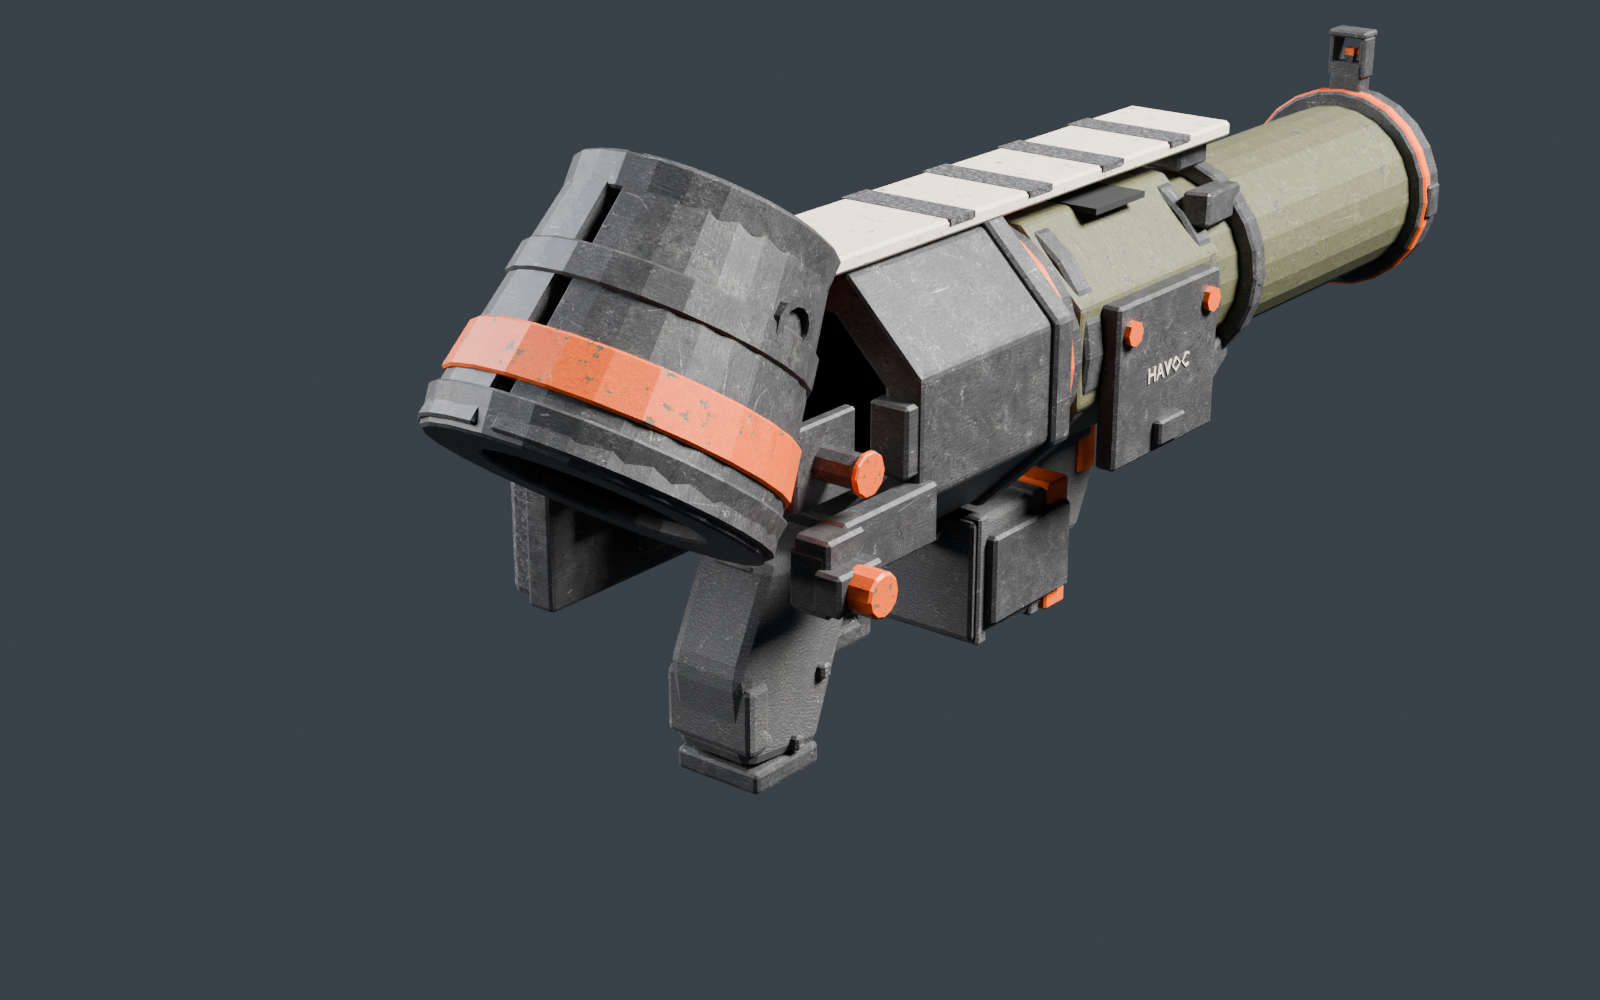
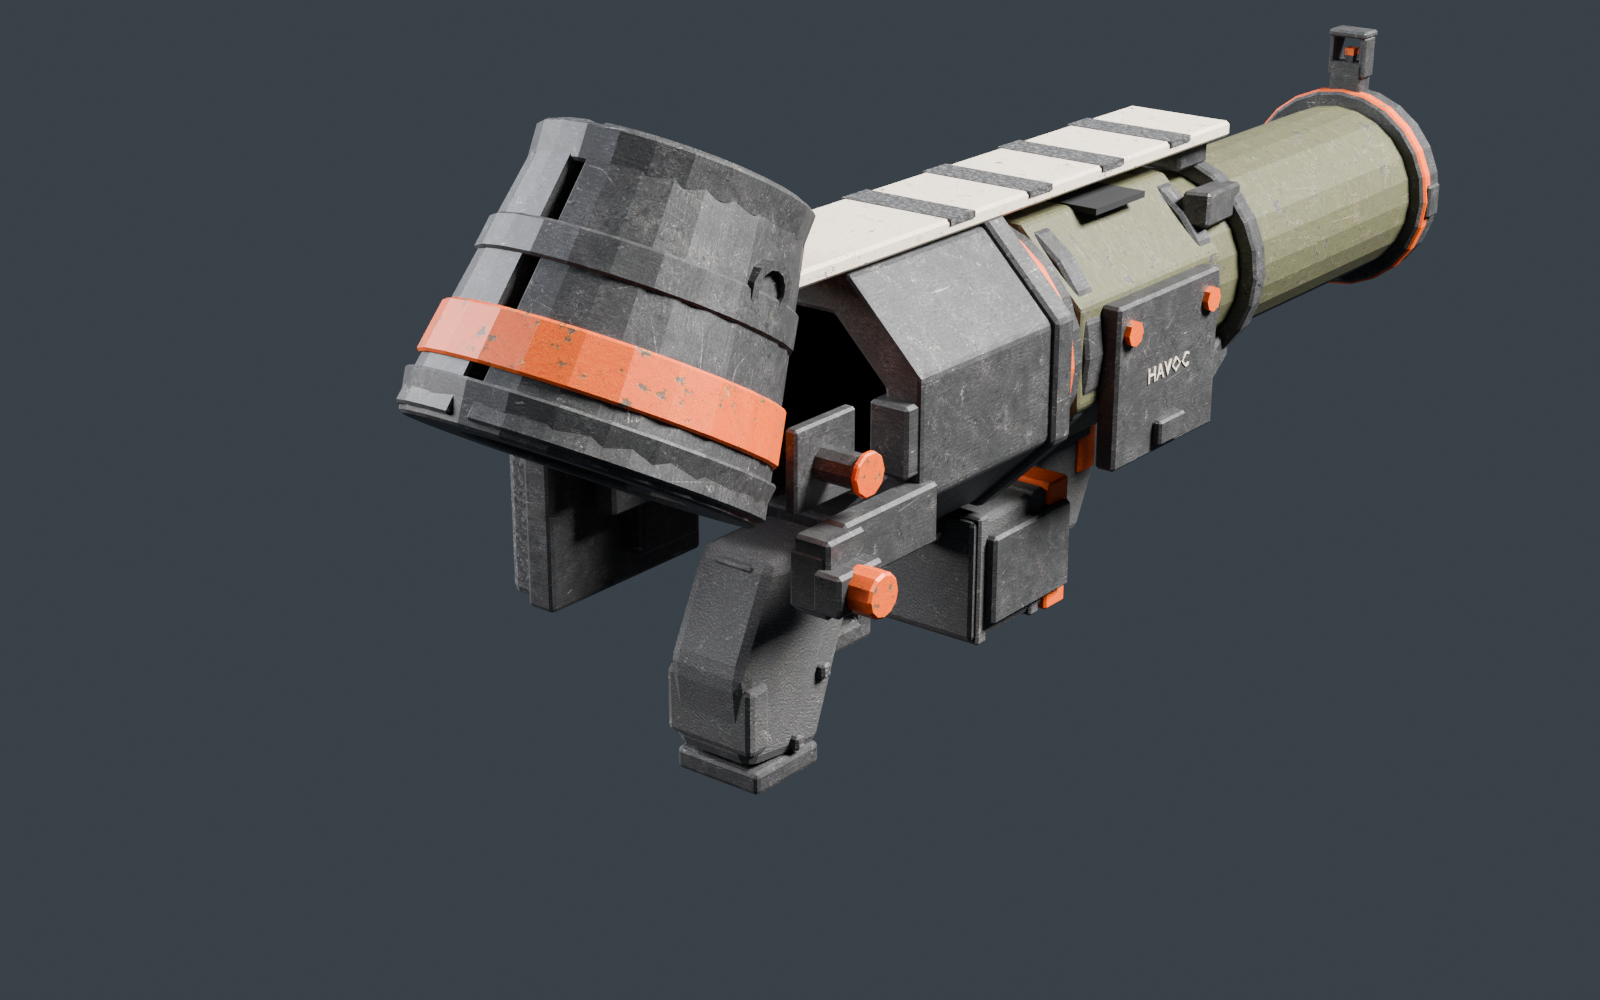
Rocket reload restaged: breech presentation, weighted gate drop, staged round

Changed region(s): [[0.25, 0.093, 0.5625, 0.589]]

diff --git a/public/js/guns/actions.js b/public/js/guns/actions.js
@@ -165,12 +165,17 @@ export class WeaponActions {
       lead.rotation.set(0, 0, 0);
     }
     const rocket = model.extra.userData.rocketReload;
-    if (rocket) rocket.gate.position.z = rocket.rearZ;
+    if (rocket) {
+      // The rocket reload drives the gate slide + swing and the round's rotation
+      // (the arming lever rides model.bolt, zeroed above); restore all of it.
+      rocket.gate.position.z = rocket.rearZ;
+      rocket.gate.rotation.x = 0;
+    }
     const rounds = model.extra.userData.reloadRounds;
     if (rounds) {
       rounds.visible = false;
       for (const child of rounds.children) child.visible = true;
-      if (revolver) rounds.rotation.set(0, 0, 0);
+      if (revolver || rocket) rounds.rotation.set(0, 0, 0);
       if (rounds.userData.homePosition) rounds.position.copy(rounds.userData.homePosition);
     }
     const cartridges = model.extra.userData.cartridges;
@@ -612,36 +617,58 @@ export class WeaponActions {
       this._phase(frac, 0.01, 0.10) * (1 - this._phase(frac, 0.92, 1)), loading);
   }
 
+  /**
+   * RX-8 HAVOC reload staging, all six beats under the camera: PRESENT the
+   * breech, DROP the gate with a weighted hinge-stop, LOAD the round up from
+   * lower-right, SEAT it with an accelerating shove, SLAM the gate shut, COCK
+   * the arming lever. Pure function of `frac`; rest pose untouched.
+   */
   _updateRocketReload(frac, model, out) {
     const reload = this._reload;
     const timeline = model.T.magTimeline;
     const parts = model.extra.userData.rocketReload;
-    const presented = this._phase(frac, 0.025, 0.18) * (1 - this._phase(frac, 0.90, 1));
-    const open = this._phase(frac, timeline.start, 0.32) * (1 - this._phase(frac, timeline.home, timeline.clickAt));
+    // PRESENT: roll the breech toward the camera from 0.02 so every later action
+    // happens under the lens, then settle the view before the slam. The seat and
+    // latch contacts keep the two heavy clicks felt in the hands.
+    const presented = this._phase(frac, 0.02, 0.20) * (1 - this._phase(frac, 0.88, 1.00));
     const seat = this._contact(frac, timeline.home, 0.07);
-    out.dip = 0.045 * presented + 0.025 * seat;
-    out.rock = 0.10 * presented - 0.08 * seat;
-    out.x = -0.12 * presented;
-    out.push = -0.12 * presented - 0.035 * seat;
-    // The authored venturi sleeves the tube ahead of the hinge: it travels
-    // straight back clear of the breech, then flips down break-action style so
-    // the rear stands fully open before the round starts to rise. Same for the
-    // procedural cone; rest pose untouched.
-    const slide = this._phase(frac, timeline.start, 0.30) * (1 - this._phase(frac, timeline.home, timeline.clickAt));
-    parts.gate.position.z = parts.rearZ + 0.11 * slide;
-    parts.gate.rotation.x = 0.95 * open * slide;
+    const latch = this._contact(frac, timeline.clickAt, 0.05);
+    out.yaw = -0.22 * presented;
+    out.roll = 0.16 * presented;
+    out.x = -0.10 * presented;
+    out.dip = 0.05 * presented + 0.03 * seat;
+    out.rock = 0.10 * presented - 0.10 * seat - 0.03 * latch;
+    out.push = -0.10 * seat;
+    // DROP: the gate (authored venturi or procedural cone) sleeves straight back
+    // clear of the breech, then flips down break-action style so the rear stands
+    // fully open before the round starts to rise.
+    const slide = this._phase(frac, 0.18, 0.30) * (1 - this._phase(frac, 0.84, 0.90));
+    parts.gate.position.z = parts.rearZ + 0.13 * slide;
+    const open = this._phase(frac, 0.20, 0.32) * (1 - this._phase(frac, 0.85, 0.90));
+    // The hinge-stop bounce at 0.31 lands the drop with weight; SLAM swings the
+    // gate shut from 0.84 and a smaller bounce at 0.895 absorbs the impact. Both
+    // decays end before 0.94 so the rest value is exactly 0.
+    parts.gate.rotation.x = 1.05 * open * slide + 0.07 * this._contact(frac, 0.31, 0.12)
+      - 0.05 * this._contact(frac, 0.895, 0.04);
+    // COCK: the arming lever tips while the breech stands open and snaps home
+    // exactly on cue 3.
+    model.bolt.rotation.x = 0.55 * open * (1 - this._phase(frac, 0.88, timeline.clickAt));
+    // LOAD: the round rises from lower-right close to the camera, yawed across
+    // the bore, then squares onto the tube axis.
     const round = model.extra.userData.reloadRounds;
-    const raise = this._phase(frac, 0.40, 0.58);
-    const align = this._phase(frac, 0.58, 0.68);
-    const insert = this._phase(frac, 0.68, timeline.home);
-    round.visible = frac >= 0.40 && frac < timeline.home;
-    round.position.set(-0.24 * (1 - align), parts.axisY - 1.1 * (1 - raise),
-      parts.rearZ + 0.26 - insert * 0.55);
-    round.rotation.y = 0.32 * (1 - align);
+    const raise = this._phase(frac, 0.36, 0.56);
+    const align = this._phase(frac, 0.56, 0.68);
+    // SEAT: an accelerating shove drives the round home — at insert = 1 its
+    // origin reaches rearZ - 0.29 (game z -0.35), its previous seat — and the
+    // support hand rides it the whole way.
+    const insert = this._phase(frac, 0.70, timeline.home);
+    round.visible = frac >= 0.36 && frac < timeline.home;
+    round.position.set(-0.30 * (1 - align), parts.axisY - 0.55 * (1 - raise),
+      parts.rearZ + 0.42 - 0.71 * insert * insert);
+    round.rotation.y = 0.45 * (1 - align);
     this._moveReloadHand(model, round.position.x - 0.04, round.position.y - 0.04, round.position.z + 0.075,
-      this._phase(frac, 0.20, 0.36) * (1 - this._phase(frac, timeline.home, 0.98)),
+      this._phase(frac, 0.24, 0.38) * (1 - this._phase(frac, timeline.home, 0.98)),
       round.visible || frac >= timeline.home);
-    model.bolt.rotation.x = 0.5 * open * (1 - this._phase(frac, timeline.home, timeline.clickAt));
     for (const [at, click] of [[timeline.start, 1], [timeline.home, 2], [timeline.clickAt, 3]]) {
       if (frac >= at && reload.lastFrac < at) this._callbacks.onReloadClick(click);
     }

diff --git a/public/js/capture/weapon-capture.js b/public/js/capture/weapon-capture.js
@@ -145,12 +145,15 @@ if (state.startsWith('charge-')) {
 
 if (state.startsWith('reload-')) {
   // Fractions of the one-second reload: cylinder work for the revolver, the
-  // belt gun's cover-open / box-drop / lead-laid / handle-rack beats for the LMG.
+  // belt gun's cover-open / box-drop / lead-laid / handle-rack beats for the LMG,
+  // and the rocket's gate-drop and tube-mouth shove for the RX-8 rear load.
   const belt = weapon === 'lmg';
   rig.reload(1, belt ? 'magswap' : 'cylinder');
-  const fraction = belt
-    ? { 'reload-open': 0.14, 'reload-eject': 0.28, 'reload-load': 0.875, 'reload-charge': 0.965 }[state]
-    : { 'reload-open': 0.26, 'reload-eject': 0.40, 'reload-load': 0.64 }[state];
+  const fraction = weapon === 'rocket'
+    ? { 'reload-open': 0.33, 'reload-load': 0.72 }[state]
+    : belt
+      ? { 'reload-open': 0.14, 'reload-eject': 0.28, 'reload-load': 0.875, 'reload-charge': 0.965 }[state]
+      : { 'reload-open': 0.26, 'reload-eject': 0.40, 'reload-load': 0.64 }[state];
   for (let frame = 0; frame < Math.round(fraction * 200); frame++) rig.update(0.005, stablePose);
 }
 

diff --git a/tools/blender/torch/pose-torch.py b/tools/blender/torch/pose-torch.py
@@ -6,9 +6,11 @@ Usage:
         --python tools/blender/torch/pose-torch.py
 
 The transforms mirror the runtime choreography exactly (actions.js
-_updateRocketReload / bolt arming stroke): the breech gate group slides 0.11
-straight back and swings +0.95 rad about game X at the frozen hinge
-(0, 0.075, -0.06); the arming lever rotates +0.5 rad about the gun origin.
+_updateRocketReload / bolt arming stroke): the breech gate group slides 0.13
+straight back and swings +1.05 rad about game X at the frozen hinge
+(0, 0.075, -0.06), with a hinge-stop bounce on the drop and a slam at the
+seat cue; the arming lever rotates +0.55 rad about the gun origin and snaps
+home on the cocking cue.
 """
 import bpy
 import math
@@ -24,9 +26,9 @@ if DOCS is None:
     DOCS = Path(__file__).resolve().parents[3] / 'docs/design/blender/torch'
 
 HINGE = Vector((0.000, 0.060, 0.075))   # authoring-space gate pivot
-GATE_SLIDE = 0.11                        # straight back along the bore (game +z)
-GATE_SWING = 0.95                        # rad about game X (= authoring X)
-LEVER_STROKE = 0.5                       # rad about the gun origin
+GATE_SLIDE = 0.13                        # straight back along the bore (game +z)
+GATE_SWING = 1.05                        # rad about game X (= authoring X)
+LEVER_STROKE = 0.55                      # rad about the gun origin
 
 scene = bpy.context.scene
 scene.render.engine = 'CYCLES'

diff --git a/docs/design/blender/torch/build-report.md b/docs/design/blender/torch/build-report.md
@@ -56,19 +56,21 @@ map). Anchors (game space): muzzle `[0, 0.075, -0.78]`, grip
 `[0, 0.175, -0.34]`. Bore axis x 0 / y 0.075, exposed radius 0.0620 from the
 breech z -0.22 to the muzzle plane z -0.78, clear bore radius 0.0555 so the
 runtime reload round (r ≤ 0.046, seats nose at z ≈ -0.58) slides through from
-z +0.20.
+z +0.36.
 
 - `body`: tube core + bore liner, breech block, housing shell, cage, deck,
   sights, grips, shoulder brace, markings and the seated warhead nose.
 - `mag`: the fixed underslung control canister (runtime owner: the group IS
   the canister; the old shoe-only look would read as a missing part).
 - `bolt`: side arming lever at game z -0.040; the runtime rotates the group
-  +0.5 rad about the gun origin.
+  +0.55 rad about the gun origin (tips while the breech is open, snaps home on
+  the cocking cue).
 - `trigger`: blade (tip at z -0.055) + shoe + guard at z -0.11.
 - `extra`: ONLY the breech gate leaves (`gate | gunmetal`, `gate | orange
   paint`, `gate | cavity black`), hinge-local geometry with node translation
-  exactly `[0, 0.075, -0.06]`; the runtime slides the gate 0.11 back and
-  swings +0.95 rad about game X. No loose reload round: the runtime spawns it.
+  exactly `[0, 0.075, -0.06]`; the runtime slides the gate 0.13 back and
+  swings +1.05 rad about game X (hinge-stop bounce on the drop, slam at the
+  seat cue). No loose reload round: the runtime spawns it.
 
 ## Commands
 
@@ -152,8 +154,8 @@ Every run below was executed for this delivery (not assumed):
 
 ## Assumptions (stated, not checked)
 
-- Gate articulation axis: the runtime rotates `gate.rotation.x` (+0.95 rad,
-  with a 0.11 slide) about the frozen hinge; the leaves are shaped for that
+- Gate articulation axis: the runtime rotates `gate.rotation.x` (+1.05 rad,
+  with a 0.13 slide) about the frozen hinge; the leaves are shaped for that
   motion (confirmed with the runtime owner during the redo).
 - Hand fit: the grip and support palms sit on the contract points and the
   furniture is built around them, but no third-person pose test was run.

diff --git a/docs/design/blender/README.md b/docs/design/blender/README.md
@@ -501,8 +501,9 @@ Animated parts (runtime model `torch.js`):
 - `extra`: ONLY the breech gate leaves (`gate | gunmetal`, `gate | orange
   paint`, `gate | cavity black`) with hinge-local geometry and node translation
   exactly `[0, 0.075, -0.06]`; the runtime re-parents them under a gate group
-  at the hinge (BISON cover-leaf convention) and reload slides the gate 0.11
-  back while swinging +0.95 rad about game X. No loose reload round ships: the
+  at the hinge (BISON cover-leaf convention) and reload slides the gate 0.13
+  back while swinging +1.05 rad about game X (hinge-stop bounce on the drop,
+  slam at the seat cue). No loose reload round ships: the
   runtime spawns it procedurally.
 
 The launch tube is bare 0.0620 tube across the heat band z [-0.752, -0.528]
